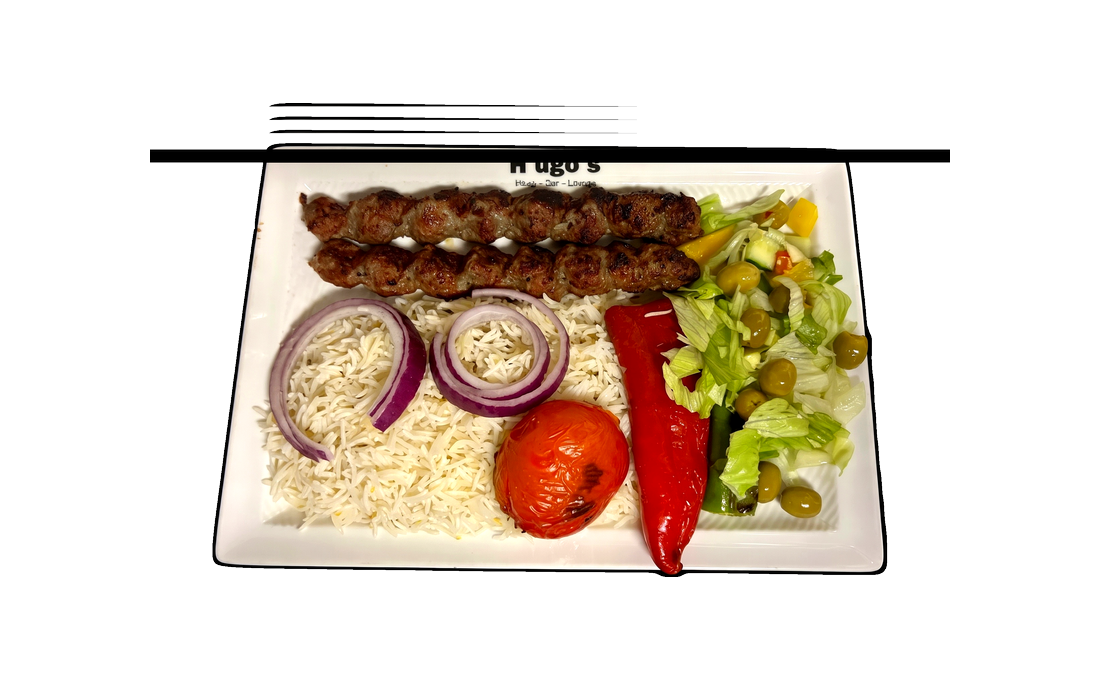
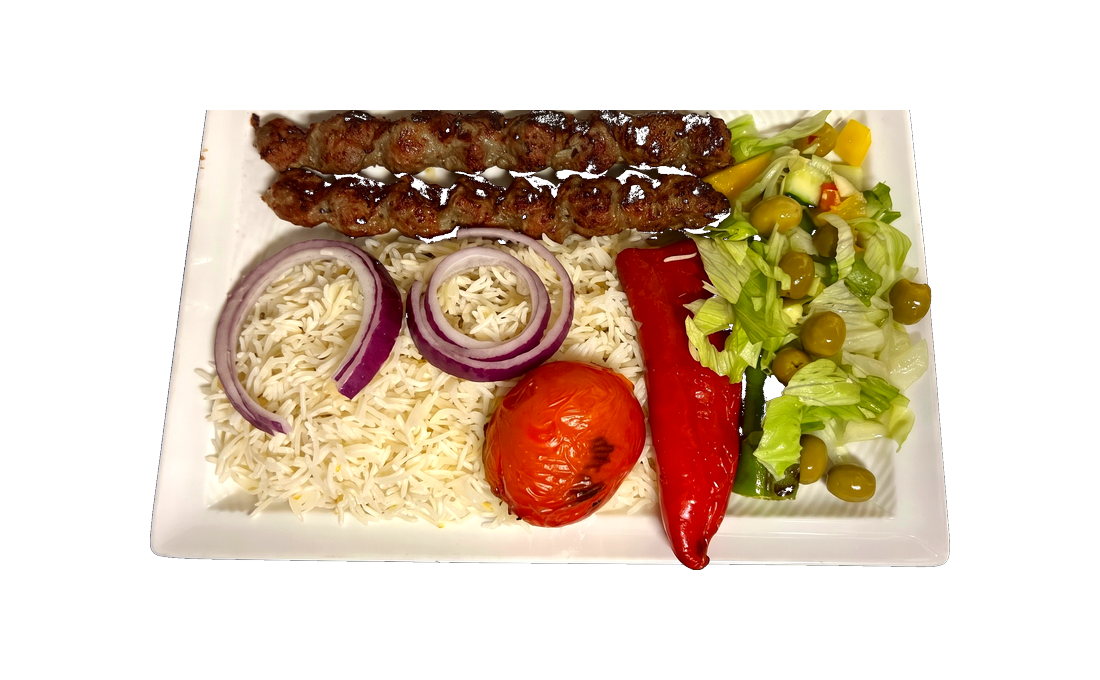
Sequential numbering 1-42, Ferni photo in Nachtisch, Bamia smaller, Afghani Burger bigger, drink numbers, clearer descriptions

diff --git a/index.html b/index.html
@@ -159,19 +159,19 @@ html,body{margin:0;padding:0;background-color:var(--paper);width:210mm;}
 .hours{display:inline-grid;grid-template-columns:auto auto;column-gap:28px;row-gap:5px;margin:6px 0 2px;font-family:var(--f-body);font-size:15.5px;color:var(--cream);}
 .hours span:nth-child(odd){text-align:left;}
 .hours span:nth-child(even){text-align:right;font-variant-numeric:tabular-nums;}
-.dr-section{font-family:var(--f-caps);font-size:19px;font-weight:700;color:var(--gold);letter-spacing:3px;text-transform:uppercase;border-bottom:2px solid rgba(193,144,8,0.5);padding-bottom:5px;margin-bottom:10px;margin-top:12px;display:flex;align-items:center;gap:10px;}
-.dr-cat-row{display:flex;gap:24px;align-items:stretch;}
-.dr-cat-photos{display:flex;flex-direction:column;gap:4px;width:72px;flex-shrink:0;align-self:center;}
-.dr-cat-photos img{width:100%;aspect-ratio:1;object-fit:contain;}
+.dr-section{font-family:var(--f-caps);font-size:24px;font-weight:700;color:var(--gold);letter-spacing:4px;text-transform:uppercase;border-bottom:2px solid rgba(193,144,8,0.5);padding-bottom:7px;margin-bottom:14px;margin-top:18px;display:flex;align-items:center;gap:10px;}
+.dr-cat-row{display:flex;gap:28px;align-items:stretch;}
+.dr-cat-photos{display:flex;flex-direction:column;gap:5px;width:100px;flex-shrink:0;align-self:flex-start;max-height:280px;}
+.dr-cat-photos img{width:100%;height:64px;object-fit:contain;}
 .dr-list{flex:1;display:flex;flex-direction:column;justify-content:center;gap:0;}
-.dr-list-item{display:flex;align-items:baseline;padding:8px 0;border-bottom:1px solid rgba(193,144,8,0.14);gap:6px;}
+.dr-list-item{display:flex;align-items:baseline;padding:13px 0;border-bottom:1px solid rgba(193,144,8,0.18);gap:8px;}
 .dr-list-item:last-child{border-bottom:none;}
 .li-left{display:flex;flex-direction:column;flex-shrink:0;}
-.li-name{font-family:var(--f-serif);font-size:16px;font-weight:600;color:var(--cream);line-height:1.2;}
-.li-dari{font-family:var(--f-naskh);font-size:12px;color:var(--dari);direction:rtl;}
-.li-sub{font-family:var(--f-body);font-size:10px;color:rgba(242,236,216,0.45);font-style:italic;}
-.li-dots{flex:1;border-bottom:1px dotted rgba(193,144,8,0.4);margin-bottom:3px;min-width:20px;}
-.li-price{font-family:var(--f-caps);font-size:15px;font-weight:800;color:var(--gold);flex-shrink:0;}
+.li-name{font-family:var(--f-serif);font-size:19px;font-weight:600;color:var(--cream);line-height:1.2;}
+.li-dari{font-family:var(--f-naskh);font-size:14px;color:var(--dari);direction:rtl;}
+.li-sub{font-family:var(--f-body);font-size:12px;color:rgba(242,236,216,0.72);font-style:italic;}
+.li-dots{flex:1;border-bottom:1px dotted rgba(193,144,8,0.45);margin-bottom:4px;min-width:20px;}
+.li-price{font-family:var(--f-caps);font-size:18px;font-weight:800;color:var(--gold);flex-shrink:0;}
 /* ── ELEGANT COVER LAYOUT ── */
 .cov-wrap{position:absolute;inset:14mm;z-index:5;display:flex;flex-direction:column;align-items:center;justify-content:center;gap:22px;text-align:center;padding:8px 44px 14px;}
 .cov-hband{width:100%;display:flex;flex-direction:column;align-items:center;}
@@ -259,12 +259,12 @@ html,body{margin:0;padding:0;background-color:var(--paper);width:210mm;}
         <div class="bubble">
           <div class="dish-head">
             <div class="dish-nr-name">
-              <span class="dish-nr-tag">27</span>
+              <span class="dish-nr-tag">01</span>
               <div class="dish-name">Samosa</div>
             </div>
             <span class="dish-price">ab 2,50 €</span>
           </div>
-          <div class="dish-dari" dir="rtl">سمبوسه گیاهی</div>
+          <div class="dish-dari" dir="rtl">سمبوسه</div>
           <div class="dish-rule"></div>
           <p class="dish-desc">Knusprig frittierte Teigtaschen gefüllt mit Gemüse, Kartoffeln & Sauce · 1 Stk.: 2,50 € / 2 Stk.: 4,99 €</p>
         </div>
@@ -274,7 +274,7 @@ html,body{margin:0;padding:0;background-color:var(--paper);width:210mm;}
         <div class="bubble">
           <div class="dish-head">
             <div class="dish-nr-name">
-              <span class="dish-nr-tag">28</span>
+              <span class="dish-nr-tag">02</span>
               <div class="dish-name name-compact">Bolani Kachalo</div>
             </div>
             <span class="dish-price">2,49 €</span>
@@ -289,7 +289,7 @@ html,body{margin:0;padding:0;background-color:var(--paper);width:210mm;}
         <div class="bubble">
           <div class="dish-head">
             <div class="dish-nr-name">
-              <span class="dish-nr-tag">26</span>
+              <span class="dish-nr-tag">03</span>
               <div class="dish-name name-compact">Afghani Burger</div>
             </div>
             <span class="dish-price">8,00 €</span>
@@ -298,7 +298,7 @@ html,body{margin:0;padding:0;background-color:var(--paper);width:210mm;}
           <div class="dish-rule"></div>
           <p class="dish-desc">Saftige Rindswurst auf Afghani-Brot mit Pommes, Ei & Salat</p>
         </div>
-        <div class="photo-wrap"><img class="photo-img" src="images/_mk_cache/photo_27.png" alt="Afghani Burger" style="transform:scale(1)"></div>
+        <div class="photo-wrap"><img class="photo-img" src="images/_mk_cache/photo_27.png" alt="Afghani Burger" style="transform:scale(1.1)"></div>
       </div>
   </div>
 </div></div>
@@ -320,7 +320,7 @@ html,body{margin:0;padding:0;background-color:var(--paper);width:210mm;}
         <div class="bubble">
           <div class="dish-head">
             <div class="dish-nr-name">
-              <span class="dish-nr-tag">22</span>
+              <span class="dish-nr-tag">04</span>
               <div class="dish-name">Kabuli Palau</div>
             </div>
             <span class="dish-price">8,50 €</span>
@@ -335,7 +335,7 @@ html,body{margin:0;padding:0;background-color:var(--paper);width:210mm;}
         <div class="bubble">
           <div class="dish-head">
             <div class="dish-nr-name">
-              <span class="dish-nr-tag">01</span>
+              <span class="dish-nr-tag">05</span>
               <div class="dish-name">Mahicha Palau</div>
             </div>
             <span class="dish-price">16,00 €</span>
@@ -381,7 +381,7 @@ html,body{margin:0;padding:0;background-color:var(--paper);width:210mm;}
         <div class="bubble">
           <div class="dish-head">
             <div class="dish-nr-name">
-              <span class="dish-nr-tag">02</span>
+              <span class="dish-nr-tag">07</span>
               <div class="dish-name">Mantu</div>
             </div>
             <span class="dish-price">12,90 €</span>
@@ -396,7 +396,7 @@ html,body{margin:0;padding:0;background-color:var(--paper);width:210mm;}
         <div class="bubble">
           <div class="dish-head">
             <div class="dish-nr-name">
-              <span class="dish-nr-tag">15</span>
+              <span class="dish-nr-tag">08</span>
               <div class="dish-name">Ashak</div>
             </div>
             <span class="dish-price">12,90 €</span>
@@ -411,7 +411,7 @@ html,body{margin:0;padding:0;background-color:var(--paper);width:210mm;}
         <div class="bubble">
           <div class="dish-head">
             <div class="dish-nr-name">
-              <span class="dish-nr-tag">03</span>
+              <span class="dish-nr-tag">09</span>
               <div class="dish-name">Shola</div>
             </div>
             <span class="dish-price">10,00 €</span>
@@ -442,7 +442,7 @@ html,body{margin:0;padding:0;background-color:var(--paper);width:210mm;}
         <div class="bubble">
           <div class="dish-head">
             <div class="dish-nr-name">
-              <span class="dish-nr-tag">05</span>
+              <span class="dish-nr-tag">10</span>
               <div class="dish-name">Korma Morgh</div>
             </div>
             <span class="dish-price">11,90 €</span>
@@ -457,7 +457,7 @@ html,body{margin:0;padding:0;background-color:var(--paper);width:210mm;}
         <div class="bubble">
           <div class="dish-head">
             <div class="dish-nr-name">
-              <span class="dish-nr-tag">04</span>
+              <span class="dish-nr-tag">11</span>
               <div class="dish-name">Borani Banjan</div>
             </div>
             <span class="dish-price">8,00 €</span>
@@ -472,7 +472,7 @@ html,body{margin:0;padding:0;background-color:var(--paper);width:210mm;}
         <div class="bubble">
           <div class="dish-head">
             <div class="dish-nr-name">
-              <span class="dish-nr-tag">23</span>
+              <span class="dish-nr-tag">12</span>
               <div class="dish-name">Pacha Suppe</div>
             </div>
             <span class="dish-price">10,00 €</span>
@@ -503,7 +503,7 @@ html,body{margin:0;padding:0;background-color:var(--paper);width:210mm;}
         <div class="bubble">
           <div class="dish-head">
             <div class="dish-nr-name">
-              <span class="dish-nr-tag">07</span>
+              <span class="dish-nr-tag">13</span>
               <div class="dish-name">Mixgrill</div>
             </div>
             <span class="dish-price">24,50 €</span>
@@ -518,7 +518,7 @@ html,body{margin:0;padding:0;background-color:var(--paper);width:210mm;}
         <div class="bubble">
           <div class="dish-head">
             <div class="dish-nr-name">
-              <span class="dish-nr-tag">09</span>
+              <span class="dish-nr-tag">14</span>
               <div class="dish-name">Kobida Kabab</div>
             </div>
             <span class="dish-price">16,00 €</span>
@@ -533,7 +533,7 @@ html,body{margin:0;padding:0;background-color:var(--paper);width:210mm;}
         <div class="bubble">
           <div class="dish-head">
             <div class="dish-nr-name">
-              <span class="dish-nr-tag">10</span>
+              <span class="dish-nr-tag">15</span>
               <div class="dish-name name-compact">Lamm Tikka Kabab</div>
             </div>
             <span class="dish-price">17,00 €</span>
@@ -548,7 +548,7 @@ html,body{margin:0;padding:0;background-color:var(--paper);width:210mm;}
         <div class="bubble">
           <div class="dish-head">
             <div class="dish-nr-name">
-              <span class="dish-nr-tag">20</span>
+              <span class="dish-nr-tag">16</span>
               <div class="dish-name">Lammkotelett</div>
             </div>
             <span class="dish-price">17,00 €</span>
@@ -579,7 +579,7 @@ html,body{margin:0;padding:0;background-color:var(--paper);width:210mm;}
         <div class="bubble">
           <div class="dish-head">
             <div class="dish-nr-name">
-              <span class="dish-nr-tag">25</span>
+              <span class="dish-nr-tag">17</span>
               <div class="dish-name">Lamm Karahi</div>
             </div>
             <span class="dish-price">17,00 €</span>
@@ -594,7 +594,7 @@ html,body{margin:0;padding:0;background-color:var(--paper);width:210mm;}
         <div class="bubble">
           <div class="dish-head">
             <div class="dish-nr-name">
-              <span class="dish-nr-tag">08</span>
+              <span class="dish-nr-tag">18</span>
               <div class="dish-name">Chapli Kabab</div>
             </div>
             <span class="dish-price">9,00 €</span>
@@ -609,7 +609,7 @@ html,body{margin:0;padding:0;background-color:var(--paper);width:210mm;}
         <div class="bubble">
           <div class="dish-head">
             <div class="dish-nr-name">
-              <span class="dish-nr-tag">11</span>
+              <span class="dish-nr-tag">19</span>
               <div class="dish-name">Korma Kofta</div>
             </div>
             <span class="dish-price">11,00 €</span>
@@ -624,7 +624,7 @@ html,body{margin:0;padding:0;background-color:var(--paper);width:210mm;}
         <div class="bubble">
           <div class="dish-head">
             <div class="dish-nr-name">
-              <span class="dish-nr-tag">12</span>
+              <span class="dish-nr-tag">20</span>
               <div class="dish-name">Dopiaza</div>
             </div>
             <span class="dish-price">13,90 €</span>
@@ -655,7 +655,7 @@ html,body{margin:0;padding:0;background-color:var(--paper);width:210mm;}
         <div class="bubble">
           <div class="dish-head">
             <div class="dish-nr-name">
-              <span class="dish-nr-tag">33</span>
+              <span class="dish-nr-tag">21</span>
               <div class="dish-name">Kalb Karahi</div>
             </div>
             <span class="dish-price">15,00 €</span>
@@ -670,7 +670,7 @@ html,body{margin:0;padding:0;background-color:var(--paper);width:210mm;}
         <div class="bubble">
           <div class="dish-head">
             <div class="dish-nr-name">
-              <span class="dish-nr-tag">19</span>
+              <span class="dish-nr-tag">22</span>
               <div class="dish-name">Chicken Kabab</div>
             </div>
             <span class="dish-price">15,50 €</span>
@@ -685,7 +685,7 @@ html,body{margin:0;padding:0;background-color:var(--paper);width:210mm;}
         <div class="bubble">
           <div class="dish-head">
             <div class="dish-nr-name">
-              <span class="dish-nr-tag">24</span>
+              <span class="dish-nr-tag">23</span>
               <div class="dish-name name-compact">Hähnchen Karahi</div>
             </div>
             <span class="dish-price">13,50 €</span>
@@ -700,7 +700,7 @@ html,body{margin:0;padding:0;background-color:var(--paper);width:210mm;}
         <div class="bubble">
           <div class="dish-head">
             <div class="dish-nr-name">
-              <span class="dish-nr-tag">21</span>
+              <span class="dish-nr-tag">24</span>
               <div class="dish-name">Fry Fish</div>
             </div>
             <span class="dish-price">14,90 €</span>
@@ -731,7 +731,7 @@ html,body{margin:0;padding:0;background-color:var(--paper);width:210mm;}
         <div class="bubble">
           <div class="dish-head">
             <div class="dish-nr-name">
-              <span class="dish-nr-tag">13</span>
+              <span class="dish-nr-tag">25</span>
               <div class="dish-name">Spinatcurry</div>
             </div>
             <span class="dish-price">8,00 €</span>
@@ -746,7 +746,7 @@ html,body{margin:0;padding:0;background-color:var(--paper);width:210mm;}
         <div class="bubble">
           <div class="dish-head">
             <div class="dish-nr-name">
-              <span class="dish-nr-tag">14</span>
+              <span class="dish-nr-tag">26</span>
               <div class="dish-name">Blumenkohl</div>
             </div>
             <span class="dish-price">8,00 €</span>
@@ -761,7 +761,7 @@ html,body{margin:0;padding:0;background-color:var(--paper);width:210mm;}
         <div class="bubble">
           <div class="dish-head">
             <div class="dish-nr-name">
-              <span class="dish-nr-tag">16</span>
+              <span class="dish-nr-tag">27</span>
               <div class="dish-name">Loobia</div>
             </div>
             <span class="dish-price">8,00 €</span>
@@ -776,7 +776,7 @@ html,body{margin:0;padding:0;background-color:var(--paper);width:210mm;}
         <div class="bubble">
           <div class="dish-head">
             <div class="dish-nr-name">
-              <span class="dish-nr-tag">17</span>
+              <span class="dish-nr-tag">28</span>
               <div class="dish-name">Bamia</div>
             </div>
             <span class="dish-price">10,00 €</span>
@@ -785,7 +785,7 @@ html,body{margin:0;padding:0;background-color:var(--paper);width:210mm;}
           <div class="dish-rule"></div>
           <p class="dish-desc">Zartes Okra geschmort in würziger Tomatensauce mit Koriander</p>
         </div>
-        <div class="photo-wrap"><img class="photo-img" src="images/_mk_cache/photo_12.png" alt="Bamia" style="transform:scale(0.97)"></div>
+        <div class="photo-wrap"><img class="photo-img" src="images/_mk_cache/photo_12.png" alt="Bamia" style="transform:scale(0.93)"></div>
       </div>
   </div>
 </div></div>
@@ -807,7 +807,7 @@ html,body{margin:0;padding:0;background-color:var(--paper);width:210mm;}
         <div class="bubble">
           <div class="dish-head">
             <div class="dish-nr-name">
-              <span class="dish-nr-tag">18</span>
+              <span class="dish-nr-tag">29</span>
               <div class="dish-name">Nakhod</div>
             </div>
             <span class="dish-price">8,00 €</span>
@@ -822,7 +822,7 @@ html,body{margin:0;padding:0;background-color:var(--paper);width:210mm;}
         <div class="bubble">
           <div class="dish-head">
             <div class="dish-nr-name">
-              <span class="dish-nr-tag">29</span>
+              <span class="dish-nr-tag">30</span>
               <div class="dish-name name-compact">Vegetarischer Teller</div>
             </div>
             <span class="dish-price">10,00 €</span>
@@ -837,7 +837,7 @@ html,body{margin:0;padding:0;background-color:var(--paper);width:210mm;}
         <div class="bubble">
           <div class="dish-head">
             <div class="dish-nr-name">
-              <span class="dish-nr-tag">30</span>
+              <span class="dish-nr-tag">31</span>
               <div class="dish-name name-compact">Hähnchen Suppe</div>
             </div>
             <span class="dish-price">10,00 €</span>
@@ -871,21 +871,26 @@ html,body{margin:0;padding:0;background-color:var(--paper);width:210mm;}
     <img src="images/_mk_cache/drink_37.png">
     <img src="images/_mk_cache/drink_38.png">
   </div>
-  <div class="dr-list"><div class="dr-list-item"><div class="li-left"><div class="li-name">Cola</div></div><div class="li-dots"></div><div class="li-price">2,50 €</div></div>
-<div class="dr-list-item"><div class="li-left"><div class="li-name">Cola Zero</div></div><div class="li-dots"></div><div class="li-price">2,50 €</div></div>
-<div class="dr-list-item"><div class="li-left"><div class="li-name">Mezzo Mix</div></div><div class="li-dots"></div><div class="li-price">2,50 €</div></div>
-<div class="dr-list-item"><div class="li-left"><div class="li-name">Apfelschorle</div></div><div class="li-dots"></div><div class="li-price">2,50 €</div></div>
-<div class="dr-list-item"><div class="li-left"><div class="li-name">Wasser still</div></div><div class="li-dots"></div><div class="li-price">2,50 €</div></div>
-<div class="dr-list-item"><div class="li-left"><div class="li-name">Wasser sprudel</div></div><div class="li-dots"></div><div class="li-price">2,50 €</div></div>
-<div class="dr-list-item"><div class="li-left"><div class="li-name">Dough</div><div class="li-dari" dir="rtl">دوغ</div><div class="li-sub">Joghurt-Drink</div></div><div class="li-dots"></div><div class="li-price">3,00 €</div></div>
-<div class="dr-list-item"><div class="li-left"><div class="li-name">Tee</div><div class="li-dari" dir="rtl">چای</div></div><div class="li-dots"></div><div class="li-price">1,50 €</div></div>
+  <div class="dr-list"><div class="dr-list-item"><span class="dish-nr-tag" style="font-size:11px;min-width:22px;padding:1px 4px;margin-right:6px;flex-shrink:0;">32</span><div class="li-left"><div class="li-name">Cola</div></div><div class="li-dots"></div><div class="li-price">2,50 €</div></div>
+<div class="dr-list-item"><span class="dish-nr-tag" style="font-size:11px;min-width:22px;padding:1px 4px;margin-right:6px;flex-shrink:0;">33</span><div class="li-left"><div class="li-name">Cola Zero</div></div><div class="li-dots"></div><div class="li-price">2,50 €</div></div>
+<div class="dr-list-item"><span class="dish-nr-tag" style="font-size:11px;min-width:22px;padding:1px 4px;margin-right:6px;flex-shrink:0;">34</span><div class="li-left"><div class="li-name">Mezzo Mix</div></div><div class="li-dots"></div><div class="li-price">2,50 €</div></div>
+<div class="dr-list-item"><span class="dish-nr-tag" style="font-size:11px;min-width:22px;padding:1px 4px;margin-right:6px;flex-shrink:0;">35</span><div class="li-left"><div class="li-name">Apfelschorle</div></div><div class="li-dots"></div><div class="li-price">2,50 €</div></div>
+<div class="dr-list-item"><span class="dish-nr-tag" style="font-size:11px;min-width:22px;padding:1px 4px;margin-right:6px;flex-shrink:0;">36</span><div class="li-left"><div class="li-name">Wasser still</div></div><div class="li-dots"></div><div class="li-price">2,50 €</div></div>
+<div class="dr-list-item"><span class="dish-nr-tag" style="font-size:11px;min-width:22px;padding:1px 4px;margin-right:6px;flex-shrink:0;">37</span><div class="li-left"><div class="li-name">Wasser sprudel</div></div><div class="li-dots"></div><div class="li-price">2,50 €</div></div>
+<div class="dr-list-item"><span class="dish-nr-tag" style="font-size:11px;min-width:22px;padding:1px 4px;margin-right:6px;flex-shrink:0;">38</span><div class="li-left"><div class="li-name">Dough</div><div class="li-sub">Joghurt-Drink</div></div><div class="li-dots"></div><div class="li-price">3,00 €</div></div>
+<div class="dr-list-item"><span class="dish-nr-tag" style="font-size:11px;min-width:22px;padding:1px 4px;margin-right:6px;flex-shrink:0;">39</span><div class="li-left"><div class="li-name">Tee</div></div><div class="li-dots"></div><div class="li-price">1,50 €</div></div>
 </div>
 </div>
 <div style="margin-top:16px;">
 <div class="dr-section">Nachtisch</div>
-<div class="dr-list" style="max-width:420px;"><div class="dr-list-item"><div class="li-left"><div class="li-name">Jelabi</div><div class="li-dari" dir="rtl">جلبی</div><div class="li-sub">pro Stück</div></div><div class="li-dots"></div><div class="li-price">1,50 €</div></div>
-<div class="dr-list-item"><div class="li-left"><div class="li-name">Afghanischer Pudding</div><div class="li-dari" dir="rtl">فرنی</div></div><div class="li-dots"></div><div class="li-price">3,00 €</div></div>
-<div class="dr-list-item"><div class="li-left"><div class="li-name">Afghanisches Eis-Creme</div><div class="li-dari" dir="rtl">آیس کریم</div></div><div class="li-dots"></div><div class="li-price">4,00 €</div></div>
+<div class="dr-cat-row">
+  <div class="dr-cat-photos">
+    <img src="images/_mk_cache/photo_ferni.png" style="height:90px;object-fit:contain;">
+  </div>
+  <div class="dr-list"><div class="dr-list-item"><span class="dish-nr-tag" style="font-size:11px;min-width:22px;padding:1px 4px;margin-right:6px;flex-shrink:0;">40</span><div class="li-left"><div class="li-name">Jelabi</div><div class="li-dari" dir="rtl">جلبی</div><div class="li-sub">pro Stück</div></div><div class="li-dots"></div><div class="li-price">1,50 €</div></div>
+<div class="dr-list-item"><span class="dish-nr-tag" style="font-size:11px;min-width:22px;padding:1px 4px;margin-right:6px;flex-shrink:0;">41</span><div class="li-left"><div class="li-name">Afghaner Pudding</div><div class="li-dari" dir="rtl">فرنی</div></div><div class="li-dots"></div><div class="li-price">3,00 €</div></div>
+<div class="dr-list-item"><span class="dish-nr-tag" style="font-size:11px;min-width:22px;padding:1px 4px;margin-right:6px;flex-shrink:0;">42</span><div class="li-left"><div class="li-name">Afghanes Eis-Creme</div><div class="li-dari" dir="rtl">آیس کریم</div></div><div class="li-dots"></div><div class="li-price">4,00 €</div></div>
+</div>
 </div></div>
   </div>
 </div></div>
